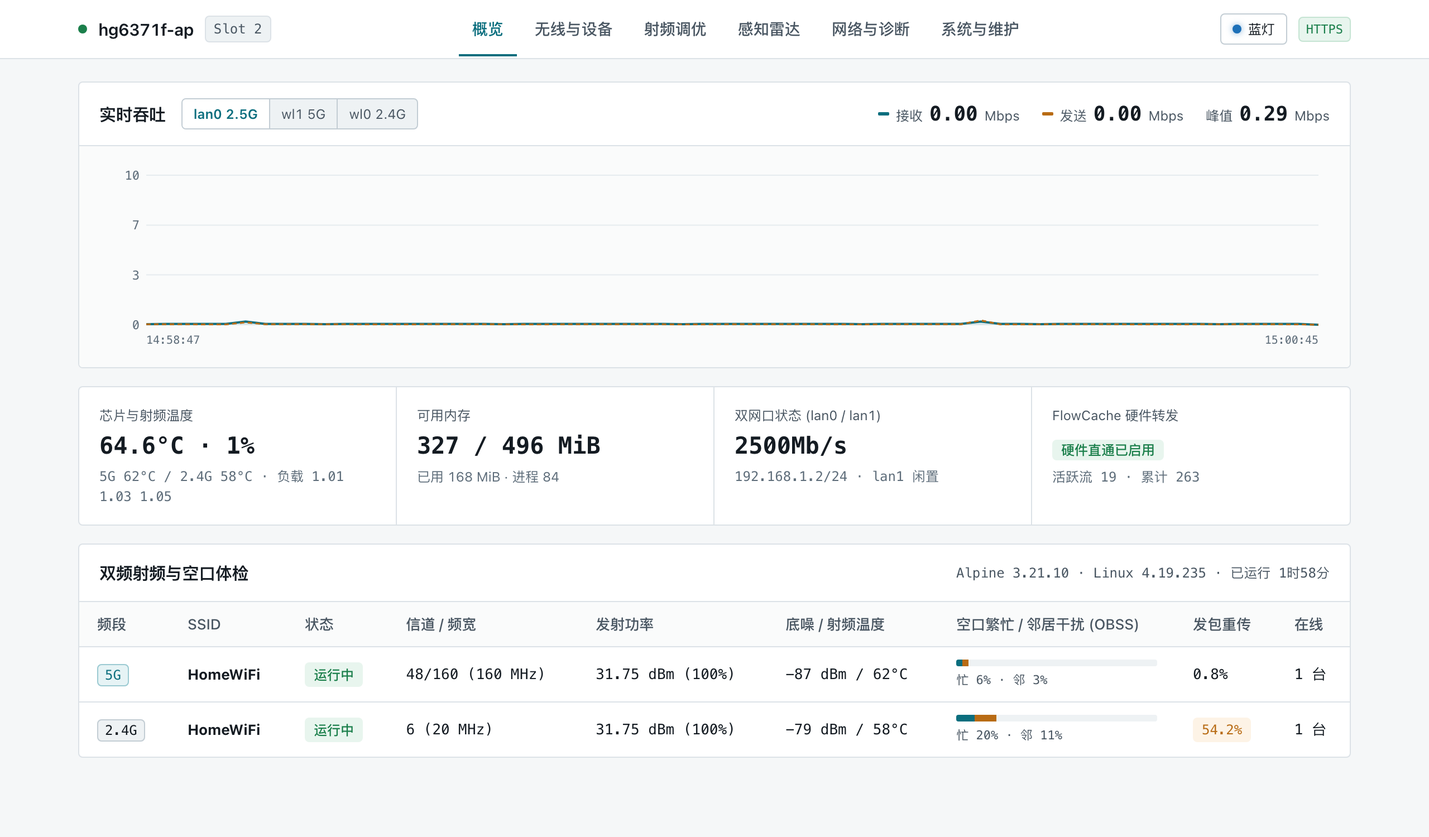
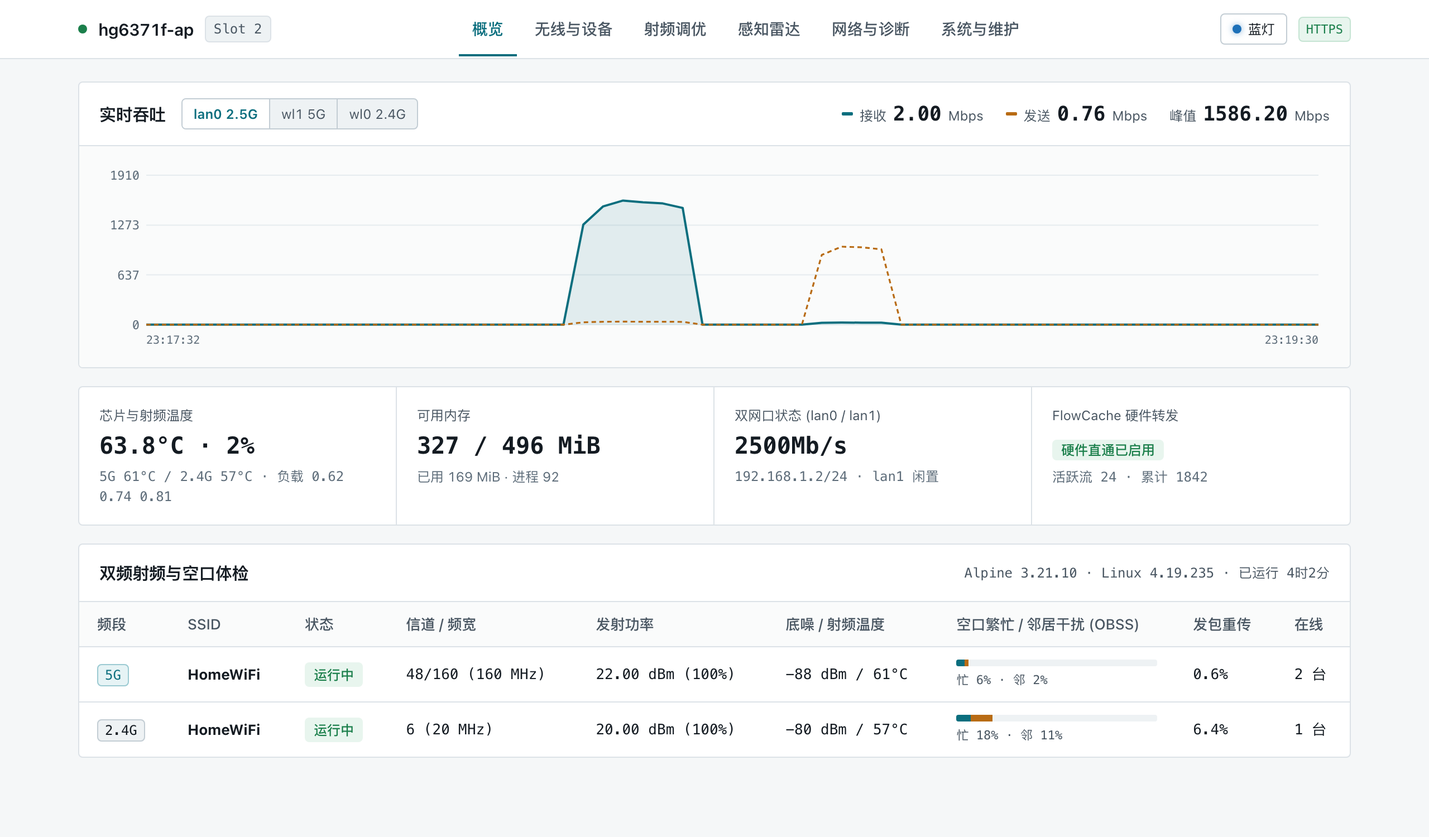
docs: refresh screenshots (hardware photo, 1.55 Gbps iperf3, CSI+MQTT, Home Assistant, file tree) and forum post

diff --git a/docs/forum-post.md b/docs/forum-post.md
@@ -1,0 +1,374 @@
+# [开源] 40元烽火 HG6371F 2.5G AP 终极改造：纯净 Alpine 3.21 + 100% 开源重写博通用户态 + 自研 Go 面板（1.55 Gbps / CSI 存在雷达 / MQTT HA 自动发现 / A/B 180s 防砖）
+
+![HG6371F 改造后实机外观（GPIO 接管状态蓝灯）](images/00-hardware.jpg)
+
+> 一台闲鱼 40 元收来的 FTTR 子光猫，买来当纯 2.5G 无线 AP 用。从最初拿到手摸清硬件/凭据/分区结构，到实机攻破三层启动验签、把臃肿的运营商固件连根拔起换成 **纯净 Alpine Linux 3.21 + 100% 开源重写的博通用户态（`bcmopen`）+ 上游 `hostapd 2.11` + 自研零依赖 Go 控制台（含 CSI 存在雷达与 MQTT Home Assistant 自动发现）**，全程记录在此。
+>
+> **⚠ 重要声明（刷前必读）**：
+> - **纯二层 2.5G AP 定位**：本方案**已彻底移除 PON 光猫、TR-069、拨号路由与全部运营商组件**，仅用于局域网纯 2.5G 无线 AP，**不可替代入户主光猫**。
+> - **请勿盲目照搬命令，建议用你自己的 AI Agent 先摸清本机再动手**：HG6371F 在市面上有**中国电信 / 中国移动 / 中国联通及不同出厂批次**（本文实测为中国电信版，BCM68252C、`hwcfg=0xba`）。不同运营商或不同日期固件在 Telnet 提权路径、分区容量、U-Boot/内核/驱动偏移、GPIO 引脚上**都可能不同**。动手前务必冷备份全分区，把文档和本机 dump 交给**你自己的 AI Agent** 逐项核对确认后再写入，全程坚持**保留原厂槽作救生艇、只刷非活动槽、先一次性试跑再固化**！
+> - **开源与合规边界**：本文所有 MAC、SN、密码、内网 IP、域名均已脱敏；开源仓库（`libre-hg6371f-ap`）仅包含原创开源代码与构建脚本，**不分发任何原厂闭源二进制**（原厂 U-Boot 与无线 `.ko` 均由脚本在本地从用户自备的原厂备份中提取），仅供个人合法购入的离线硬件做技术研究与纯内网 AP 改造。
+> - **Roadmap 预告**：配套自编同版本 Linux `4.19.235` 开源内核（`libre-hg6371f-kernel`，GPLv2，已通过 125+ 条编译期 ABI 断言与 663/663 符号校验）目前仍在实机调试收尾中，点亮后将作为 v2.0 更新同步放出！
+
+---
+
+## 一、开箱摸底：硬件规格、分区表与原厂痛点
+
+### 1.1 硬件底子
+这台光猫做纯 2.5G AP 硬件其实很扎实（芯片型号与拆机图见参考 [5]，本机已通过 `/proc` 与设备信息复核）：
+- **SoC**：Broadcom **BCM68252C**（双核 Cortex-A7 1.5 GHz，ARMv7l，集成 5G 2×2 160 MHz 基带，理论 2402 Mbps）
+- **2.4G 射频**：独立 PCIe 芯片 **BCM6705**（Wi-Fi 6 2×2）
+- **5G FEM**：RTC7676 ×2
+- **有线网口**：1× 2.5G 电口（RTL8221B PHY）+ 1× 1G 电口 + GPON 光口（不插光纤时 PON RX 报 `-40 dBm` 属正常）
+- **内存 / 闪存**：512 MB DDR（K4A4G165WF）+ 256 MB SPI NAND（W25N02KV，支持 A/B 双槽切换）
+- **内核基线**：Linux `4.19.235`，U-Boot `2019.07`（Broadcom TPL）
+
+### 1.2 256 MB NAND 分区表与挂载结构
+
+```text
+mtd0 spi1.0      256M
+mtd1 loader        2M   ← SPL + TPL，动了就真砖，严禁写入
+mtd2 image       164M   └ ubi0: metadata1/2(static) bootfs1/2(static) rootfs1/2(static) felix1/2
+mtd3 apps         83M   └ ubi1: apps(71M) data(6.6M)   → /opt/upt/apps、/fhconf (ubifs rw)
+mtd4 frameworka   16M
+mtd5 frameworkb   16M
+mtd6 factory       6M   └ ubi2: factory（射频校准 / SN / 出厂 MAC，ro，严禁擦写）
+```
+
+A/B 双槽核心卷（`ubi0` 均为 static 卷）：
+- Slot 1（A 槽）：`ubi0_3` `bootfs1`（~10.8 MB）+ `ubi0_4` `rootfs1`（~33.1 MB）
+- Slot 2（B 槽）：`ubi0_5` `bootfs2`（~11.0 MB）+ `ubi0_6` `rootfs2`（~33.7 MB）
+- `ubi0_1` / `ubi0_2`：`metadata1` / `metadata2`（各 1,280 字节，**严禁 `ubirmvol`/`ubimkvol`**）
+
+### 1.3 原厂固件当纯 AP 的痛点
+虽然社区已有切 LAN 上行改桥接/AP 的教程 [2][6]，但原厂固件长期当 AP 用很难受：
+- **极度臃肿**：常驻 **168 个进程**，开机拉起 **6 个 SAF LXC 插件子容器**，待机吃掉 **~238 MiB 内存**；
+- **发热与负载高**：平均负载常年 `5–6`（IO/D 态进程堆积），无风扇常态 **71–73°C**；
+- **运营商残留**：常驻 `tr069`、两路公网外联、上行自适应开启时会以 75 包/分持续往局域网狂发 DHCP DISCOVER；
+- **重启极慢**：正常重启光等一堆容器优雅退出就要 **80–120 秒**。
+
+---
+
+## 二、免拆机提权与全分区冷备份（出厂第一步）
+
+### 2.1 原厂管理面与登录加密算法
+出厂系统跑着两个逻辑不同的 Web 服务：
+- **`:80`（uhttpd + LuCI 定制页）**：默认面向普通用户 `useradmin`，若输入超管账号 `telecomadmin` 会自动跳转到 `:8080` 端口登录；
+- **`:8080`（nginx + `/cgi-bin/ajax`）**：真正的管理后台（共 196 个 `ajaxmethod`，分布在 160 个页面中），超管可在此登录（出厂默认超管密码 `nE7jA%5m`）；采用**单会话限制**（被占用时返回 `login_result=1`），写操作要求同时带 `sessionid`（`ajaxmethod=get_operator`）、`token`（URL 编码后的 User-Agent）及合法 `Referer/Origin`（否则 nginx 返回 400）。
+
+`:8080` 的登录加密算法已完全还原，每台设备通用（只与 MAC 和超管密码有关）：
+- `ajaxmethod=web_get_brmad` 下发 27 字符 `brmad`（8 位随机 + 12 位大写无冒号 MAC + 7 位随机）；
+- `key = iv = "*$" + <12位大写MAC> + "#&"`（恰好 16 字节）；
+- `loginpd = hex( AES-128-CBC( sha256_hex(password), key, iv, PKCS7 ) )`。
+
+```sh
+MAC=AA11BB22CC33; PW='<超管密码>'
+KEYHEX=$(printf '*$%s#&' "$MAC" | od -An -tx1 | tr -d ' \n')
+SHA=$(printf '%s' "$PW" | sha256sum | cut -d' ' -f1)
+PD=$(printf '%s' "$SHA" | openssl enc -aes-128-cbc -K "$KEYHEX" -iv "$KEYHEX" -nosalt \
+     | od -An -tx1 | tr -d ' \n')
+```
+
+### 2.2 工厂接口 `/fh_tool/api` 与凭据体系
+设备在 `:8080` 上还挂了一个不在任何菜单里的工厂接口：
+
+```text
+http://[fe80::100%25<网卡名>]:8080/fh_tool/api
+```
+
+- 走 **IPv6 链路本地地址**，可绕过仅针对 IPv4 的来源过滤；
+- 请求体为 AES-128-CBC 加密 JSON（密钥同样由 MAC 派生），`Content-Type: text/plain`；
+- 已验证有用的方法：
+  - `GetDevInfo`：型号、软硬件版本、SN、内存/闪存信息
+  - `GetAdminAccount`：直接返回**明文**超管账号密码
+  - `TelnetEnable`：传 `{"telnet":"1"}` 开启 23 端口
+  - `DownloadFile` / `LogDownload`：下载 `/var`、`/fhconf` 文件或日志包（注意返回虽叫 `.tar.gz` 实为未压缩 tar）
+  - ⚠ **避坑**：`RestoreDefaultSettings` 无参数调用即立刻恢复出厂，千万别放进接口探测列表！
+
+通过 `LogDownload` 导出的 `var/log/fhcfg.log` 与 `/var/telsu`（`root:$5$fh$<hash>`，可用 `openssl passwd -5 -salt fh` 离线比对）还原出的完整凭据规律：
+- **Telnet 登录**：用户名 `telnetadmin`，密码 `FH-` + `<超管密码>` + `<MAC后6位>`
+- **Telnet 提权**：`su`，密码 `Fh@` + `<MAC后6位>`
+- `/var/shadow` 中 `root` / `telecomadmin` / `useradmin` / `ctuser` 共用一个 `$6$` 哈希，为运营商随机口令，常规字典不可解；
+- ⚠ 刚进 Telnet 是**受限 shell**（`id`/`uname` 报 `Operation not permitted`，`cat`/`dd` 可用），执行 `su` 后才是完整 root；连错 3 次会触发 `telnet_pause_60s.sh` 向 iptables `CHAIN_SERVICE` 插入 DROP 规则封 60 秒。
+
+### 2.3 原厂内部结构速查（仅折腾原厂系统时同样有用）
+如果暂不打算刷机、只计划在原厂系统上微调配置，下面这些实机摸出的底层细节可以直接拿来用：
+
+1. **`ubus` 是真正的后端**（`ubus -v list` 共 **55 个对象 / 268 个方法**，Web 只是薄薄一层壳）：
+   - 常用对象：`cfgmgr`（配置读写/备份/恢复出厂）、`firewall`（44 个防火墙方法）、`lancc`（LAN/IPv6）、`udhcpd`、`wifi_mgr_ubus_config`、`sysmgr`、`telnetd`。
+   - **配置写入**：`ubus call cfgmgr write_single_config '{"obj_url":"...","param_name":"...","param_value":"..."}'`
+   - **配置读取**：`cfgmgr` 没有读方法，直接读 `/fhconf/*_conf`（UCI 风格 `config key` + `option value`）或走 Web 的 `get_*` 接口。
+2. **原厂无线与上行怪癖**：
+   - **上行自适应 DHCP 广播风暴（必关）**：`X_FH_SwitchAutoEnable=1` 时，子光猫内部的 FTTR-sub 身份会用自身 MAC 置本地管理位，持续发送无后续 REQUEST 的 DHCP DISCOVER（实测 75 包/分，累计 4.5 万次）。用 `ubus call cfgmgr write_single_config` 将其设为 `0` 并保留 `X_FH_WanInterface=dev.eth.1` 即可立即停止，无需重启；
+   - **双接口 MAC 关系**：管理地址与 FTTR 上行口实为同一台设备的两个接口，MAC 仅差最后一位；
+   - **2.4G 40MHz 自动跳信道**：原厂页面改 40MHz 会悄悄改主信道（实测 ch1 跳到 ch6），页面返回 `success:true` 不代表真按指定信道生效，务必用 `wl -i wl0 status` 核对 `Chanspec` / `Primary channel`；
+   - **5G 160MHz DFS 陷阱**：原厂若启用 802.11h，ch36/160 覆盖 52–64 DFS 信道，开机需等约 60 秒 CAC 或遇雷达自动切道，表现为「能搜到 SSID 但连不上」（可用 `wl -i wl1 dfs_status` 查状态，后文第四节会用 `wl -i wl1 spect 0` 彻底根治）。
+3. **官方加密升级包结构分析**（如论坛流传的移动版 `HG6371F_CM_FTTR_RP02C004_enc.img`，45.94 MB [1]，联通版见 [4]）：
+   ```text
+   0x000  WKE2.094.516 / WKE2.094.498（料号）  RP01  RP2114V2.2.1  BCM6855X
+   0x200  ENC_squashfs.img            37179408
+          ENC_filestruct_full.bin     10992000
+          ENC_felix.img               176（尾部）
+   0xE00  起为密文（熵 7.6，无 16 字节重复块 → AES-CBC/CTR，非压缩）
+   ```
+   整台设备用户态里没有任何二进制引用 `ENC_` / `filestruct`，说明官方加密包不由本机用户态解密，而是给主光猫、产线工具或 U-Boot 的 `fh_upg`（内含 `/trust/key_image_aes` 与 `bcm_sec_get_dev_spec_key` 符号）使用的；也正因如此，自己改造走下文的**本地 FIT 重打包**路线远比死磕官方加密包省事。
+
+### 2.4 拿到 Root 后第一件事：持久化 SSH + 全分区冷备份
+1. **持久化 SSH**：将静态 ARMv7 `dropbear` 放到可写持久化分区 `/opt/upt/apps`（`ubi1_0`），配合公钥登录，立刻替代不安全的明文 Telnet。
+2. **全分区冷备份**：按重要程度依次 dump `factory`、`metadata1/2`、`bootfs1/2`、`rootfs1/2` 到电脑离线保存：
+   ```sh
+   dd if=/dev/ubi0_6 of=/tmp/rootfs2.bin bs=1M
+   # 若设备还没装 SSH/SCP，用原厂 wget 回传务必去掉 Expect 头，否则大文件传一半会断开
+   wget -q --header="Expect:" -O /dev/null --post-file=/tmp/rootfs2.bin http://<PC_IP>:8899/rootfs2.bin
+   ```
+3. **准备硬件兜底（强烈建议）**：主板上有 5 针 UART 焊盘，接中间 3 针（TX / RX / GND，**VCC 悬空**，3.3V TTL，115200 8N1）。注意原厂 Linux 默认静音串口，如需看内核日志可在刷机前设好 `fw_setenv fhuart_enable 1`。
+
+---
+
+## 三、破局三层启动链验签：从「更改内核压缩方式（LZO → gzip）」讲起
+
+拿到 root 并冷备完分区后，很多人会以为可以畅通无阻刷自定义 rootfs 了。**其实这里藏着一个全网容易踩的大坑（我自己早期也曾被骗）**：
+
+> **勘误 1**：U-Boot 启动日志里虽然赫然打印 `Board is non secure`（`fw_printenv` 也有 `bootm_boot_mode=nonsec`），但这**只代表芯片硬件 OTP 熔丝没烧**，**不代表没有软件验签**！
+> **勘误 2**：早期粗看以为原厂 SquashFS 是 LZ4 压缩，实机解包并核对内核配置后确认，这版 4.19.235 内核只编了 **XZ 和 ZLIB**（没有 LZ4），原厂 rootfs 实际是 **XZ 128 KiB**。
+
+### 3.1 六组真机对照实验，彻底摸清三层验签真相
+与其猜，不如用非活动槽 + 一次性启动在真机上做对照实验：
+
+| 改动内容 | 启动结果 | 得出的确凿结论 |
+|---|---|---|
+| FIT 头部 DTB 的 `timestamp` 改 1 字节 | ✅ 正常启动 | FIT 头部本身不受签名保护 |
+| 内核解压后原样重压（解压内容完全相同） | ❌ 拒启，回落另一槽 | 验签覆盖的是**压缩后**的内核字节流 |
+| 只改 `kernel_sig` 1 字节（内核不动） | ❌ 拒启，回落另一槽 | `kernel_sig` 确实参与实时验签 |
+| `bootfs` 解包再逐字节原样重打包 | ✅ 正常启动 | FIT 重打包流程无损 |
+| 只改 U-Boot 版本号字符串 1 字节（`svn`→`xvn`） | ❌ 拒启，回落另一槽 | **loader 校验 U-Boot，U-Boot 1 字节都不能改！** |
+| 原厂 `bootfs2` 原样写进 Slot 1（对照组） | ✅ 从 Slot 1 启动 | A/B 一次性切槽机制正常，排除误判 |
+
+最终拼出了整条启动链的真实校验模型：
+
+```text
+BootROM → SPL → TPL (mtd1)
+  → U-Boot (bootfs FIT)                 ← 不可修改（改 1 字节即被 loader 拒启回落）
+      └─ image_decomp() LZO 分支验内核  ← ★ 破局突破口！
+  → Linux 4.19.235 内核 (同 FIT)
+      └─ do_mount_root() 验 rootfs      ← RSA-2048/SHA-256，失败就地改挂另一槽
+  → rootfs (ubiblock0_4 / 0_6)
+```
+
+顺带验证了公钥位置：U-Boot（`uboot.bin+0xdf4e0`）与内核（`0xc0c087f8`）里藏着**同一把 RSA-2048 公钥**（`e = 65537`），用 Python 对 `kernel_sig` 做 `pow(sig, 65537, N)` 还原出的 PKCS#1 v1.5 哈希，与 FIT 里压缩内核的 `sha256` 逐字节一致。
+
+### 3.2 关键突破：不改 U-Boot，靠「改内核压缩方式」绕过验签
+既然 U-Boot 一个字节都不能动，怎么引导自定义内核？反汇编 U-Boot 的 `bootm_load_os` → `image_decomp()`（`0x1028e84`）后，发现它按 FIT 里 kernel 节点的压缩类型走一个 **4 路跳转表（`0x1028f24`）**：
+
+| 压缩类型 | 分支地址 | 实际执行逻辑 | 是否验签 |
+|---|---|---|---|
+| `gzip` (1) | `0x1028f58` | 直接 `bl gunzip` (`0x10a7530`) | **无** |
+| `bzip2` (2) | `0x1029048` | 不支持，返回 -2 | — |
+| `lzma` (3) | `0x1028fb0` | 直接 `bl lzmadec` (`0x109bfc8`) | **无** |
+| `lzo` (4) | `0x1028fd8` | `lzo_decomp` + `SHA-256` + `RSA-2048` 验 `kernel_sig` | **有** |
+
+**厂商把整段私有 RSA-2048 验签硬塞进了 LZO 分支里！**
+只要把 FIT 里的 U-Boot 组件**逐字节原样保留**，把内核的 `compression` 属性从 `"lzo"` 改成 `"gzip"` 并用标准 `gzip -9` 重压，U-Boot 启动时就会走 `0x1028f58` 的 `gzip` 分支——**完全绕过验签，且不碰 U-Boot 一个字节，原厂回滚机制丝毫无损！**
+
+上真机前先用 **Unicorn** 模拟器把 U-Boot 二进制拉起来，直接调用 `0x10a7530`（U-Boot 自己的 `gunzip`）去解压我们重压后的内核（`6,036,771 B` LZO → `4,348,258 B` gzip），确认返回 `r0=0` 且解压出的 11.7 MB 原始内核 SHA-256 与原厂逐字节一致，零盲猜上机！
+
+### 3.3 第二道锁：8 字节补丁解除内核 `rootfs` 验签
+能引导自己的内核后，只剩内核挂载 rootfs 时的软件验签：`fhdrv_kdrv_check_signature`（`0xc0848428`）→ `fhdrv_kdrv_check_signature_pub`（`0xc0848260`）。
+
+它会对 `ubiblock0_4/0_6` 除去末尾 256 字节签名的内容算 SHA-256 并做 RSA-2048 校验，**返回 `1` 表示通过、`-1` 表示失败（注意不是 `0`！）**。
+
+直接对解压后的内核文件偏移 **`0x740260`** 打入 8 字节 ARM 指令补丁：
+
+```asm
+; 文件偏移 0x740260 (fhdrv_kdrv_check_signature_pub)
+mov r0, #1    ; 01 00 a0 e3
+bx  lr        ; 1e ff 2f e1
+```
+
+随后 `gzip -9` 压缩该内核，重打包 FIT（`compression = "gzip"`，同步更新 DTB 长度与 `hash-1`，U-Boot 逐字节保留），刷入非活动槽一次性试跑——**一次点亮，顺利挂载未签名 SquashFS！**
+
+### 3.4 MTD 写保护锁与 A/B 双槽防砖刷写流程
+在原厂系统里直接刷卷会报 `Operation not permitted`，因为原厂板级模块 `fhdrv_kdrv_board_impl2.ko` 锁死了 `mtd0/1/2/3/6`。
+
+逆向该模块找到解锁接口：向 `/dev/fhdrv_kdrv_board` 发送 **`ioctl 0x40085319`**（参数 `uint32[2]{mtd_num, 0|1}`）。写了一个几十行的静态 Go 小工具只解锁 **`mtd2`（`ubi0`）**，`mtd1 (loader)` 和 `mtd6 (factory)` 全程保持锁死，刷完立刻回锁。
+
+**安全刷写 4 步铁律**：
+1. **先卸 `ubiblock`**：`/proc/cmdline` 会同时绑定两个槽的 block 设备，刷非活动槽 rootfs 前必须 `ubiblock -r /dev/ubi0_<4|6>`；
+2. **用对压缩格式**：`mksquashfs -comp xz -b 131072`，体积上限 `44,314,624` 字节（349 LEBs）；UBI static 卷自带原子更新标记、每 LEB CRC-32 与 NAND ECC，`ubiupdatevol` 写一半断电旧卷也不会坏；
+3. **永远先一次性试跑**：刷完非活动槽后执行 `bcm_bootstate 6`（试跑 Slot 1）或 `8`（试跑 Slot 2），新系统开机自动拉起 **180 秒死人开关**——若 180 秒内没 SSH 连上确认固化（`bcm_bootstate 5/7`），自动重启滚回原槽；
+4. **切到纯净 Alpine 后的福利**：不再加载 `fhdrv_kdrv_board_impl2.ko` 后，`mtd2` 原生可写，`bcm_bootstate` 和 `ubiupdatevol` 直接可用。
+
+---
+
+## 四、从「原厂精简」到彻底替换纯净 Alpine Linux 3.21
+
+解除验签后，我先做了一版**阶段一过渡方案**：直接解包原厂 rootfs，删掉 6 个 SAF LXC 容器与 `tr069`/`easymesh` 等运营商组件，验证了整套自定义刷写链路与 A/B 回滚的稳定性。
+
+但很快发现原厂 `glibc`/脚本体系包袱依然很重，于是干脆一步到位：**基于 Alpine Linux 3.21（`armv7`，`musl 1.2.5 + apk + OpenRC`）从零构建整套根文件系统**（在宿主机用 `alpine-minirootfs` + `apk.static --arch armv7 --no-scripts` 自动化 reproducible 构建）。
+
+### 4.1 彻底清零闭源用户态：`bcmopen` 纯 C99 开源替代（零 `/opt/bcm`、零 `glibc`）
+早期过渡版曾在 `/opt/bcm/` 下隔离保留 8 个博通 `glibc 2.32` 闭源工具与 21 个动态库；随后通过反汇编实机二进制并逐字节回归对拍，我们用纯 C99 从零开源重写了全部博通用户态控制工具（`bcmopen`），最终彻底清空了 `/opt/bcm/` 和 `/lib/ld-linux.so.3`：
+- **内核层仅精选 30 个 `.ko` 模块**：只留 RDPA、FlowCache、WFD、PCIe、以太网、`wl.ko`、`cfg80211.ko` 等核心，彻底丢弃 GPON/EPON、全部 `fhdrv_*`、USB、Netfilter；
+- **用户态 100% 开源（零 `glibc`）**：`wdtctl`、`wl`、`fcctl`、`ethswctl`、`bdmf_shell`、`bcm_bootstate`（直接走 Linux UBI `UBI_IOCVOLUP` 原子更新，零 fork）、`bcm_flashutil`、`nvram` 全部合并编译为一个仅 **210 KiB 的纯静态 musl 多合一二进制 `/usr/local/sbin/bcmctl`**（按 `argv[0]` 软链分发）；
+- **Go 面板零 fork 直连**：同时编译静态库 `libbcmopen.a`，Go 面板通过 `cgo` 静态链接直调内核 ABI，彻底告别子进程 fork 与正则解析。
+
+![Alpine 3.21 极简文件树与 5GHz 160MHz iperf3 实测](images/07-tree-iperf3.png)
+
+### 4.2 实机趟过的 6 个硬核大坑
+
+1. **`wl.ko` 初始化报 `init_srom_sw_map failed! err=-1`**
+   - 根因：加载 `wl.ko` 前必须先执行 `nvram kernelset /fhconf/data/.kernel_nvram.setting`。早期沿用原厂 `nvram` 二进制时因隐式依赖 `libstaged.so` / `libjson-c.so.5` 报错；后来换成纯 C 开源 `bcmopen`（直连 `AF_NETLINK` proto 31）后，零外部库依赖一次通过。
+2. **只读 `/` 下 `bcm_bootstate` 写元数据失败、系统日志无处落盘**
+   - 解法：在 `inittab` 最早期的 `bcm-early-mount` 脚本里，给 `/var` 挂一层 **RAM `overlay`**（零闪存磨损，满足 `bcm_bootstate` 写 `/var/mdata.tmp` 与 `syslog`/`chrony`/`dhcpcd`），给 `/etc` 挂一层 **UBIFS 持久化 `overlay`**（落盘在 `ubi1_0` 独立目录，重启配置不丢）。
+3. **`fcctl` 报 `open </dev/fcache> error no 2`**
+   - 根因：脱离原厂脚本后没人自动建字符设备节点。在 OpenRC `bcm-hw` 服务里解析 `/proc/devices` 动态 `mknod` 出 `/dev/{fcache,blog,bcmrdpa,rdpa_user,bcmnet}`，FlowCache 硬件直通立刻恢复。
+4. **`br0` 拿到随机 MAC 导致上级路由 DHCP 静态租约失效**
+   - 解法：写 `/etc/network/if-pre-up.d/z-brmac` 从只读 `/fhdata/factory_conf` 读出厂 MAC，在 `brctl addbr` 之后、`dhcpcd` 启动之前设好网桥 MAC。
+5. **上游 `hostapd 2.11` 驱动 `wl.ko` 的 3 个要点**
+   - **严禁写 `country_code=`**：`wl.ko` 内部自管国家码（`wl country CN/947`），`hostapd.conf` 里写了会卡死在 `COUNTRY_UPDATE`；
+   - **160 MHz 协同**：先由 `bcm-hw` 设 `wl -i wl1 chanspec 48/160`，`hostapd.conf` 写 `channel=48`，`hostapd 2.11` 自动满血对齐 160 MHz；
+   - **加密模式**：`wl.ko 17.10` 是 `device_ap_sme=1`，上游 `hostapd 2.11` 跑 **WPA2-PSK** 全特性（HE / SGI160 / SU&MU-BFE）非常稳健，暂不兼容上游 WPA3-SAE；顺手彻底关掉 WPS。
+6. **5G 扫描全空（`wl: Scan Rejected / -43`）彻底破案**
+   - 现象：2.4G（`wl0`）扫描正常，5G（`wl1` `48/160`）一扫就报 `Scan Rejected`（内核 `Escan set error (-43)`）。
+   - 根因：原厂 NVRAM 配了 `wl1_reg_mode=off`，原厂 `wlconf` 启动时会下发 `wl -i wl1 spect 0`（关 802.11h）；Alpine 没跑 `wlconf`，`wl.ko` 默认 `spect=1`，切到跨 52–64 的 `48/160` 后自动锁进 **DFS ISM** 雷达监测态，拒绝多信道扫描。
+   - 解法：`bcm-hw` 拉起 `wl1` 前补上一句 `wl -i wl1 spect 0` 对齐原厂，`dfs_status` 保持 `IDLE`，免去了 60 秒 CAC 断网陷阱，原生 `wl -i wl1 scan` 一次性扫出全部周边 5G AP！
+
+---
+
+## 五、实测对比、1.55 Gbps 射频调优与架构取舍
+
+### 5.1 原厂固件 vs 纯净 Alpine 3.21 实机对比
+
+| 指标 | 出厂原厂固件 | 纯净 Alpine 3.21 |
+|---|---|---|
+| SquashFS 根镜像体积 | `32.10 MiB` | **`15.1 MiB`**（清零 `/opt/bcm` 后不到原厂一半） |
+| 待机 / 轻载内存占用 | `230–238 MiB`（可用 ~254 MiB） | **`~159 MiB`**（可用 **`327+ MiB`**） |
+| 整机进程数 | `168`（含 6 个 SAF LXC 容器） | **`~92`**（用户态仅 ~12 个） |
+| 待机平均负载 | `~5.5–6.0` | **`~0.3–1.0`**（含博通固定 `D` 态内核线程） |
+| 待机 / 轻载芯片温度 | `71–73°C` | **`58–67°C`** |
+| 重启恢复在线时间 | `80–120 秒` | **`~25–35 秒`** |
+| 运营商后台与公网外联 | 2 条常驻外联 + `tr069` | **0** |
+
+![改造后纯净 Alpine 3.21 面板概览](images/01-overview.png)
+
+### 5.2 射频调优与无线吞吐实测
+几条实测有效、且无副作用的调优参数：
+- `wl -i wl1 frameburst 1`（帧突发）
+- `wl -i wl1 ampdu_rts 0`（取消每帧 RTS 握手开销）
+- `wl -i wl1 phy_rxdesens 15`（接收降敏，过滤远处邻区底噪）
+- `wl -i wl1 wme_ac ap be aifsn 2 ecwmin 3 ecwmax 5 txop 47`
+- 内核 `sysctl`：`rmem_max=4194304`、`wmem_max=4194304`、`netdev_max_backlog=4096`
+
+**实测吞吐**（Wi-Fi 6 160 MHz 2×2 笔记本 ↔ HG6371F FlowCache 硬件直通 ↔ 2.5G 有线主路由，`iperf3 -P 4`）：
+- **下行**：近场实测 **`1.55 – 1.59 Gbps`**（日常稳定 `1.28–1.55 Gbps`，已接近 2×2 160MHz 2402M PHY 吞吐天花板）
+- **上行**：**`0.98 – 1.04 Gbps`**
+- **FlowCache**：`HW Acceleration <Enabled>`，L2/L3 硬件流直通正常接管。
+
+> ⚠ **两条血泪避坑**：
+> 1. **严禁修改 `/proc/irq/*/smp_affinity`**：博通 `wl1-kthrd`/`wfd1-thrd` 是无锁亲和绑定，乱绑核会直接导致驱动崩溃重启；
+> 2. **测速别在 AP 本机开 `iperf3 -s`**：流量终点落在 AP 用户态会绕开 FlowCache，把双核 Cortex-A7 软协议栈打满，测出来只有 500–800 Mbps。务必在上级 2.5G 路由或有线设备上开服务端。
+
+### 5.3 两个常见问题的务实结论
+- **能搬 OpenWrt 用户态（`procd + uci + LuCI`）过来吗？**
+  不推荐，不优雅。博通闭源 `wl.ko` 不是 `mac80211`，LuCI 最核心的无线页全废；且内核锁在 `4.19.235`，缺少新版 OpenWrt 依赖的 `nftables`/新网桥特性；上级已有软路由做主路由，纯 AP 跑极简 Alpine + OpenRC 干净得多。
+- **能升级主线 Linux 6.x 或自编开源内核吗？**
+  主线 6.x 不现实（博通 `wl.ko` / RDPA / FlowCache 全部闭源，强绑定博通魔改 `4.19.235` 内核 ABI）；不过**自编同版本 Linux `4.19.235` 开源内核（基于公开 GPLv2 上游 + 严格 ABI 对齐，彻底去除原厂内核验签并挂载原厂 `.ko`）**已经在独立仓库 `libre-hg6371f-kernel` 中推进到实机调试阶段，点亮验收后会作为后续重大更新放出！
+
+---
+
+## 六、自研 12MB 零依赖 Go 控制台与硬件全挖掘
+
+脱离原厂 Web 后，用 **Go 标准库（零第三方依赖，静态 ARMv7 编译，常驻内存仅 12–13 MiB）+ 原生 HTML/CSS/JS（零构建，三文件 gzip 后 ~41 KiB）** 写了一套专为 HG6371F 定制的 **6 页签**响应式控制台（`概览` / `无线与设备` / `射频调优` / `感知雷达` / `网络与诊断` / `系统与维护`，桌面端 + 手机端自动卡片化零横滚；按现代前端规范实现了 `#hash` 路由、WAI-ARIA 键盘导航、WCAG AA 对比度、1:1 无畸变 SVG 悬停读数图表、原生 `<dialog>` 非阻塞确认框、鉴权 Blob 导出与全套 `CSP` / `X-Frame-Options` / `Vary` HTTP 安全响应头），把硬件能力基本吃干抹净：
+
+1. **实时示波器与「防抢锁掉速」架构**
+   - 踩过一个非常有意思的性能坑：最初面板每 2.5 秒轮询 `/api/overview`，每次 fork ~30 个子进程并调用 20+ 次 `wl` ioctl，A/B 实测发现在跑满速下载时会抢占 `wl.ko` 锁，把单流速度拖低 **~23%**（`1.28 Gbps → 998 Mbps`）！
+   - 解法：拆出纯内存读 `/proc/net/dev` 的 `/api/traffic`（2.5 秒高频，**0 次 fork / 0 次 `wl` 锁**）喂给 1:1 `ResizeObserver` 响应式 SVG 速率曲线（支持悬停准星读数）；前端采用串行背压轮询 + 切页 `AbortController` 取消 + `visibilitychange` 后台静默，重型硬件概览 `/api/overview` 降频至 10 秒并加 8 秒后端缓存；如今再叠加 `libbcmopen.a` cgo 静态直连彻底零 fork，开着面板测速照样跑满 1.55 Gbps。
+2. **深度无线管理 + 内核 cBPF 自动识别 IP/主机名 + 多 SSID / 802.1Q VLAN**
+   - 直管 `/etc/hostapd/wl{0,1}.conf`，支持双频开关、发射功率百分比、弱信号拒连阈值、客户端隔离、MAC 黑白名单、802.11k/v/r 漫游；
+   - **纯二层自动显示终端 IP 与主机名**：后端用一条带 **21 条内核级 cBPF 过滤指令**的 `AF_PACKET` 套接字仅放行 **ARP (`0x0806`) + DHCP (`UDP 67/68 Option 12/81`) + mDNS (`5353`) / LLMNR (`5355`)** 四类极低频控制帧（正常数据流量在内核态零拷贝直接丢弃），并配合局域网 DNS PTR 反向查询与 `/tmp/ap-hosts.json` 纯内存热缓存（重启服务不丢、零写闪存），无需主路由 API 凭据即可自动关联每台在线设备的 IPv4 与主机名，同时展示双天线 RSSI（`A0 / A1`）、协商频宽/空间流（`160M · 2SS`）与单终端重传率；
+   - **多 SSID + 802.1Q VLAN**：内核原生支持 `CONFIG_VLAN_8021Q=y` 且 `wl` 支持最多 8 个 BSSID，面板一键创建 `wl0.1`/`wl1.1` 访客或 IoT 无线并绑定指定 VLAN ID（自动建 `lan0.<vid>` + 独立网桥），配合主路由做彻底的二层隔离或按 SSID 策略分流。
+3. **一键智能体检调优 + 优化前后实测对比**
+   - 扫描双频周边 AP，按邻区**真实占用频宽（20/40/80/160 MHz）与线性毫瓦功率重叠度**给每个信道打分，自动挑出黄金信道并结合 `chanim_stats` 给出 `ampdu_rts`/`phy_rxdesens`/ATF 建议；
+   - 优化前后自动采集 **硬件空口实时增量快照**（TXOP / OBSS / 底噪 / Glitch / 窗口重传率）与 **浏览器端无线延迟 P50 / P95 / Jitter**（连发 12 次轻量探测并丢弃前 2 次唤醒省电模式的首包尖峰），改完到底有没有变好一目了然。
+4. **24 小时零写闪存无线环境记录仪 + Prometheus `/metrics` 指标导出**
+   - 每分钟采集双频 `OBSS / Busy / 底噪 / 窗口重传 / 三路温度 / 客户端 RSSI`，存 1440 点纯内存环形缓冲（**零写 NAND**），自动记录设备上下线与 2.4G↔5G 切频事件，支持一键导出 CSV 复盘卡顿原因（不做定时后台离频扫描，彻底避免干扰日常业务与 CSI 雷达）；
+   - 原生暴露标准 **Prometheus `/metrics`** 端点（支持 `Authorization: Bearer <token>`），直接对接 Grafana 监控 SoC/双频温度、信道占用率、OBSS、TX 重传率、2.5G 吞吐、在线终端与雷达/靠近监测状态。
+5. **反汇编接管板级 GPIO（零原厂驱动控制状态灯与正面按键）**
+   - 脱离原厂系统后指示灯默认长红（U-Boot 拉低所致）。反汇编 `fhdrv_kdrv_board_impl.ko` 摸清了 `hwcfg=0xba` 引脚定义（均低电平有效）：
+     - `GPIO 10` = **红灯**（开机 / 停机 / 网口断链或无 IP 时常红）
+     - `GPIO 11` = **蓝灯**（`lan0` 2.5G 连通且 `br0` 拿到 IPv4 自动切常蓝；支持面板一键熄灯与夜间定时熄灯）
+     - `GPIO 9` = **机身正面物理按键**（支持短按开关指示灯、长按开关访客 Wi-Fi 或重启无线）
+     - 其余查明引脚：`GPIO 31` 背面复位孔、`GPIO 13` 光模块供电、`GPIO 12` 光收 LOS。
+6. **主路由自动推送泛域名 HTTPS 证书 + 网页 A/B OTA**
+   - 上级主路由每天续期泛域名证书后，通过 `forced-command` 受限 SSH 密钥（无法开 Shell、无法跑其他任何命令）增量推送给 AP（先比对 SHA-256，证书未变时不连接、**零无效写闪存**），Go 面板按 `mtime` 热加载 `:443` 证书并开启 `308` 强制跳转；
+   - 支持网页打包备份/还原配置，以及直接上传 `.sqfs` 固件刷入备用槽（自动校验 SquashFS 魔数 + XZ 压缩 + 容量上限，强制走一次性试跑 + 180 秒自动回滚保护）。
+
+![无线管理与多 SSID / VLAN](images/02-wifi.png)
+
+![一键智能体检与 24 小时零写闪存无线环境记录](images/03-rf-24h.png)
+
+![A/B 双槽 Web OTA、GPIO 灯光按键与 HTTPS 绿锁](images/05-system-ota.png)
+
+---
+
+## 七、硬核彩蛋：芯片里藏着 160 MHz Wi-Fi CSI 雷达（`CSIMON 1.1.0`）
+
+深挖 `wl.ko` 时还挖出一个惊喜：这颗芯片的驱动里居然完整编译了博通 **`CSIMON 1.1.0`（Channel State Information 信道状态信息硬件引擎）**！
+
+实测对在线终端下发 `wl -i wl1 csimon add <MAC> 200 enable`，芯片里的 M2M DMA 引擎**零错误每 200 ms 捕获一帧 2048 字节的 160 MHz 原始 CSI 复数矩阵**写进 DDR 环形缓冲。
+
+之所以原厂无法直接消费，反汇编 `wlc_csimon_attach`（`0x30b014–0x30b01c`）查出了根因：`wl.ko` 硬编码绑定 Netlink 协议号 `26`（`unit < 2`）和 `24`，但内核自己就把 `24–27` 全占了，导致创建 Netlink socket 失败（`Netlink subsystem: -1`）。而 `/proc/net/netlink` 里 **`23` 和 `28` 完全空闲**——只需改掉 `wl.ko` 文件偏移 `0x30b084` 处唯一匹配的 3 个字节：
+
+```text
+原字节: 02 00 51 e3  1a 10 a0 33  18 10 a0 23   (cmp r1,#2; movlo r1,#26; movhs r1,#24)
+新字节: 01 00 51 e3  1c 10 a0 33  17 10 a0 23   (cmp r1,#1; movlo r1,#28; movhs r1,#23)
+```
+
+改完这 3 个字节即可把 `wl0`（Netlink `28`）和 `wl1`（Netlink `23`，广播组 `group=2`）的 2048 字节原始帧直接送到用户态，**目前已实机打通、零丢包运行并集成进 Go 面板**！
+
+实测对客厅/卧室对面墙上的常驻 2.4G 设备（空调）以 5 Hz 采样，完整解出了 Broadcom `CSIMON 1.1.0` 二进制帧格式（64B 帧头含终端 MAC / BSSID / `chanspec` / 微秒级 TSF 时间戳 / 双天线 RSSI + 32B VASIP 副头 + `0x60..0xCF` 14 子载波 × 2 RX 天线交错 12-bit 复数 `int16` 矩阵）：
+- **无人空房 60 秒底噪实测（`W=10` 帧 MAD 抗单帧毛刺算法）**：
+  - 归一化幅度 MAD 中位仅 **`0.0011`**；
+  - **双天线共轭相位差 `∠H_rx1 - ∠H_rx0`**（天然抵消 CFO/SFO/AGC 漂移）呈现标准 U 形分布，中心子载波波动仅 **`1.0°–1.6°`**，全频段中位 `1.49°`；
+  - 综合运动指数空房稳定在 **`1.5–4.8`**（标定微动阈值 `8.5`、有人阈值 `14.2`），配合持续防抖确认（`confirm_sec`）、手动扫描自动消隐、30 秒无人保持延时与 Webhook（支持在线测试推送），可直接对接 Home Assistant 实现**零摄像头、零毫米波雷达的纯 Wi-Fi 存在感知**。
+- ⚠ **实机避坑**：博通 `wl.ko` 在目标终端**尚未关联进 `assoclist`** 时若强行 `csimon add + enable` 会触发驱动挂死，因此用户态守护进程必须严格检查目标在线后再武装，并在目标离线时立即自动解除。
+- **未关联设备靠近监测（`wl sta_monitor`）**：同在独立「感知雷达」页中集成博通硬件 `wl sta_monitor`，无需连入本 AP 即可双频被动捕获任意指定 MAC（受硬件 AMT 槽位限制，每频段最多 4 台）的实时 RSSI，按阈值与离开超时判定「在场/离开」，同样支持 Webhook 推送与 Prometheus 指标导出。
+- **内置 MQTT + Home Assistant 自动发现（免配 YAML 直接出实体）**：面板内嵌纯 Go 实现的 MQTT 3.1.1 客户端，只需填入 Broker 地址即可在 Home Assistant 自动生成整套设备与实体（2.4G/5G 访客 Wi-Fi 开关、CSI 存在雷达开关与状态、双天线 RSSI、相位扰动、运动指数、`sta_monitor` 手机在家传感器等）——**相当于 40 块买 2.5G AP，还白嫖了一个免摄像头的 Wi-Fi 人体存在 + 手机靠近传感器**。
+
+![独立感知雷达页：Wi-Fi CSI 存在雷达与 STA Monitor 靠近监测](images/04-csi-radar.png)
+
+![Home Assistant MQTT 自动发现设备与传感器实体](images/06-home-assistant.png)
+
+---
+
+## 八、变砖红线与避坑总清单
+
+1. **先备份再动手**：`factory`、`metadata1/2`、`bootfs1/2`、`rootfs1/2` 全部离线保存；
+2. **严禁触碰 `mtd1 (loader)`**，严禁对 `metadata1/2` 执行 `ubirmvol` / `ubimkvol`（丢元数据必红灯变砖）；
+3. **严禁修改 U-Boot**：loader 验 U-Boot，改内核请走本文的 **gzip FIT** 路线；
+4. **严禁往当前活动槽写入**，永远刷非活动槽 + `bcm_bootstate 6/8` 一次性试跑 + 自动回滚；
+5. **严禁修改 `/proc/irq/*/smp_affinity`**（必引发博通无线驱动崩溃）；
+6. 动 `bootfs` 前建议手边备好 3.3V USB-TTL（中间 3 针 TX/RX/GND，115200 8N1），并提前 `fw_setenv fhuart_enable 1`。
+
+---
+
+## 九、参考资料
+
+- [1] 恩山：HG6371F 变砖已修复……另分享固件（`bcm_bootstate` 用法、metadata 变砖与恢复、TTL 接线）  
+  https://www.right.com.cn/forum/thread-8447733-1-1.html
+- [2] 恩山：烽火从光猫 HG6371F 进管理员页面方法，可作 2.5G AP 使用（`:8080` 权限页、恢复开箱状态、Mesh Agent 关闭）  
+  https://www.right.com.cn/forum/thread-8415579-1-1.html
+- [3] 恩山：烽火 HG6371F 子光猫（地区/配置页）  
+  https://www.right.com.cn/forum/thread-8421899-1-1.html
+- [4] chinadsl：烽火 HG6371F-G-C 联通固件  
+  https://www.chinadsl.net/thread-180100-1-1.html
+- [5] 数码一族：HG3142F 与 HG6371F 拆机（BCM68252 / BCM6705 / RTC7676 / RTL8221B / 512MB / 256MB）  
+  https://www.smyz.net/luyouqi/22493.html
+- [6] acwifi：烽火 HG6371F 子光猫与其它品牌做无线 AP 组网  
+  https://www.acwifi.net/28620.html
+
+---
+
+从一台 40 元收来、168 进程、72°C、满身运营商插件的闲鱼光猫，一路折腾成 **15.1 MB 纯净镜像、100% 开源博通用户态、327 MB 可用内存、58–67°C、1.55 Gbps 满血硬件直通、绿锁 HTTPS + CSI 雷达 + MQTT Home Assistant 自动发现 + A/B 180s 防砖** 的纯净 Alpine 2.5G AP，全程零硬件改造且每一步都可验证复现。
+
+> 致谢：本次折腾、底层逆向、Alpine 移植与面板开发全程由 AI 编程助手协作完成。欢迎各位恩友交流指正，也欢迎测试不同运营商批次的朋友反馈适配情况！
